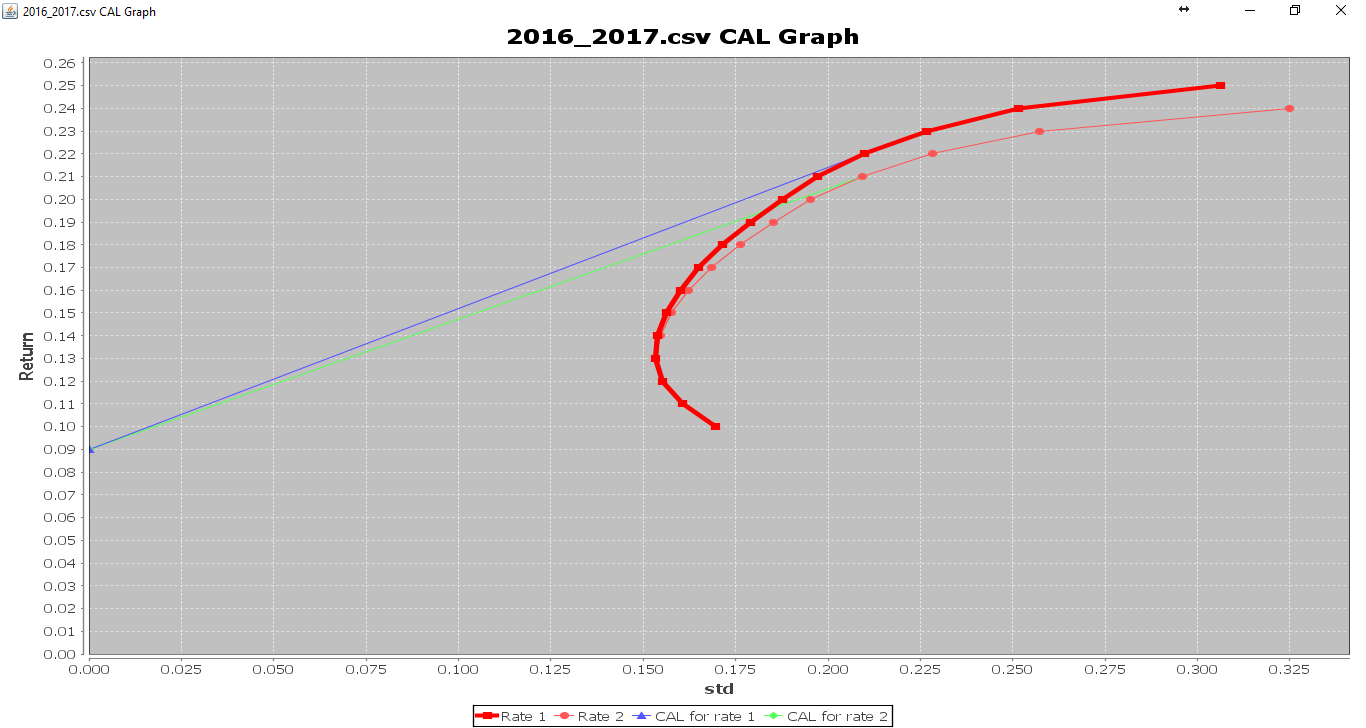
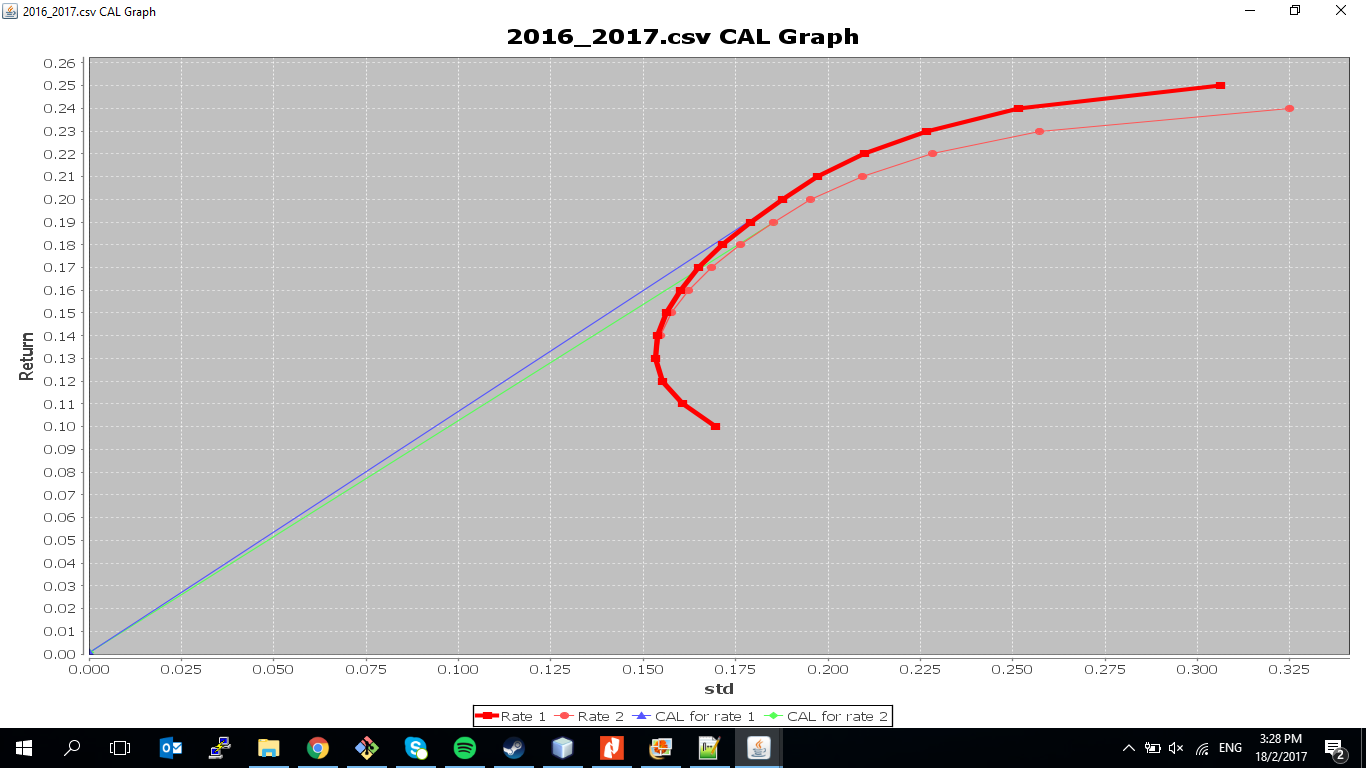
Fixed risk free rate = 0.09% instead of 9%

diff --git a/src/main/java/net/anthonypoon/fintech/assignment/one/Main.java b/src/main/java/net/anthonypoon/fintech/assignment/one/Main.java
@@ -27,7 +27,7 @@ import org.jfree.ui.RefineryUtilities;
  * @author ypoon
  */
 public class Main {
-    private static final double riskFreeR = 0.09;
+    private static final double riskFreeR = 0.0009;
     private static final double maxBound = 0.25;
     private static DecimalFormat ddf = new DecimalFormat("0.00000");
     private static double etfLowbound = 0.1;
